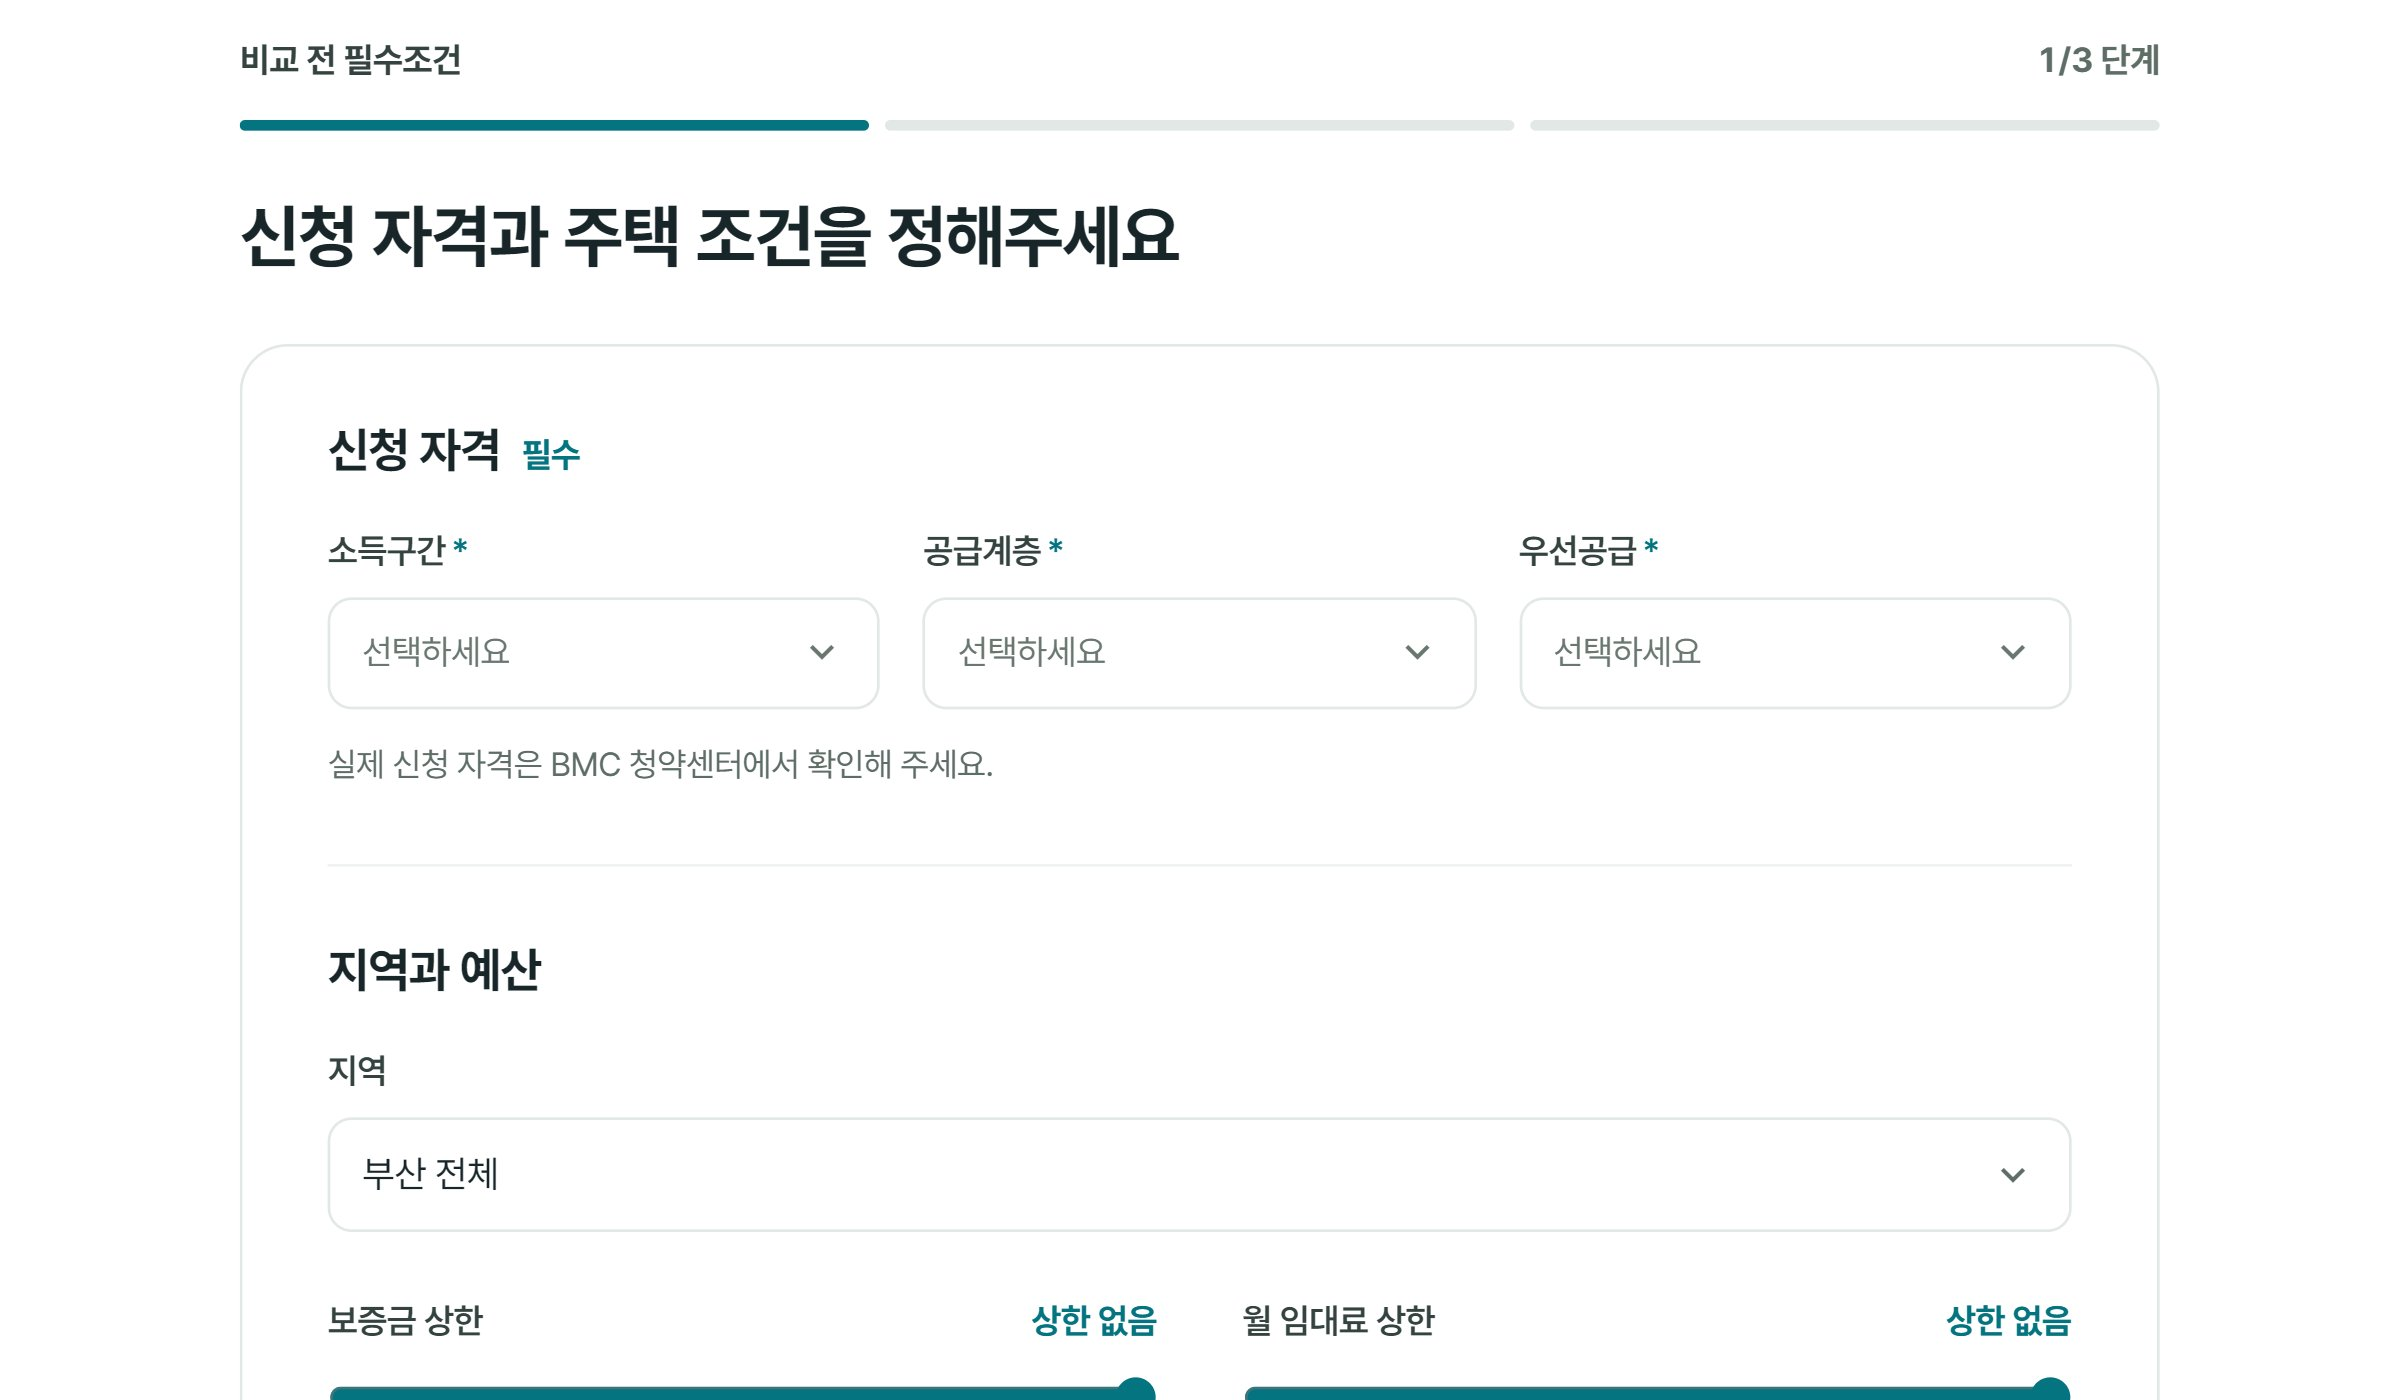
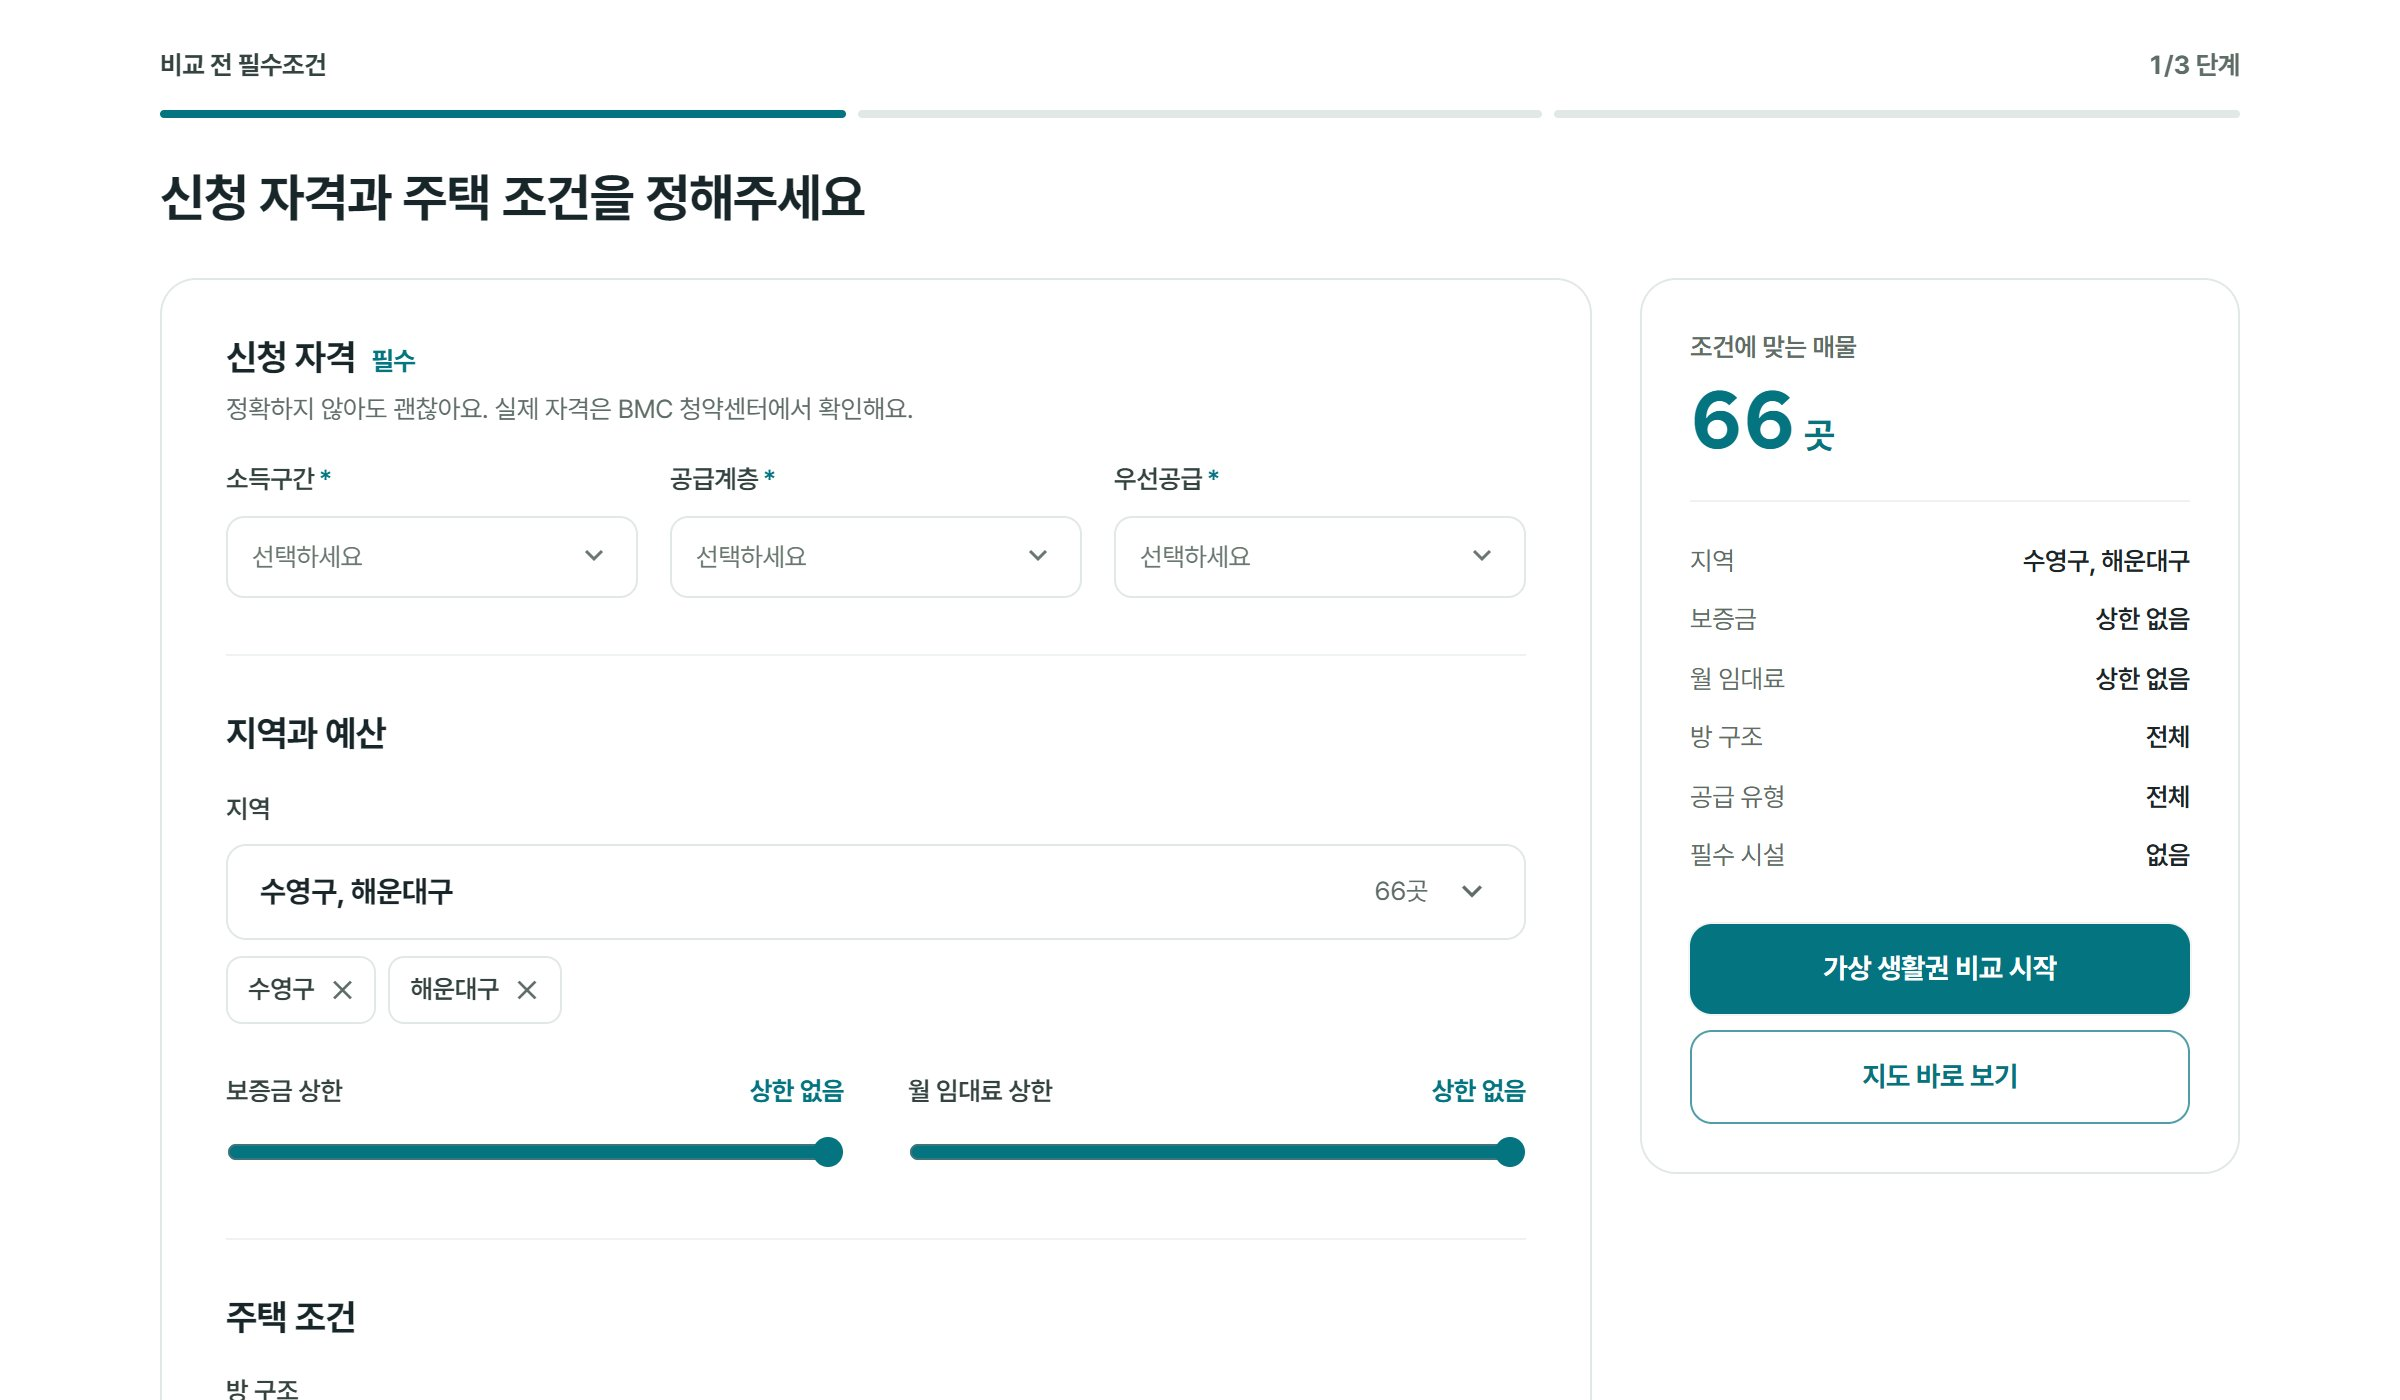
fix: 지역 패널의 선택 해제를 버튼 모양으로 바꾸고 랜딩의 조건 설정 미리보기를 새 배치로 교체

diff --git a/frontend/src/components/ui/MultiSelect.tsx b/frontend/src/components/ui/MultiSelect.tsx
@@ -102,7 +102,7 @@ export function MultiSelect({
               <button
                 type="button"
                 onClick={() => onChange([])}
-                className="text-[13px] font-semibold text-sub transition-colors hover:text-teal"
+                className="rounded-[8px] border border-line bg-white px-2.5 py-1.5 text-[13px] font-semibold text-body transition-colors hover:border-teal/45 hover:text-teal"
               >
                 선택 해제
               </button>
